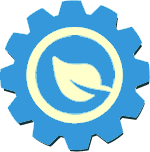
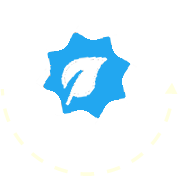
July 3, 2015 :tomato:

diff --git a/public/Assets/css/style.css b/public/Assets/css/style.css
@@ -323,66 +323,156 @@ p.services-definition {
 	#image-icon4,
 	#image-icon5 {
 		position: absolute;
+		z-index: 1;
+	}
+
+	#image-icon1 + .gear, 
+	#image-icon2 + .gear, 
+	#image-icon3 + .gear, 
+	#image-icon4 + .gear, 
+	#image-icon5 + .gear {
+		position: absolute;
+		z-index: 0;
+		-webkit-transition: -webkit-transform 1s ease-in-out;
+		transition: transform 1s ease-in-out;
 	}
 
 	#image-icon1 {
-		top: 195px;
-		right: 272px;
-		height: 75px;
-		width: 75px;
+		height: 120px;
+		width: 120px;
+		bottom: 49px;
+		left: 240px;
 	}
 
 	#image-icon2 {
+		height: 97px;
+		width: 97px;
+		bottom: 12px;
+		left: 358px;
 	}
 
 	#image-icon3 {
-		bottom: 80px;
-		right: 211px;
-		height: 82px;
-		width: 82px;
+		height: 100px;
+		width: 100px;
+		bottom: 56px;
+		left: 499px;
 	}
 
 	#image-icon4 {
+		height: 65px;
+		width: 65px;
+		bottom: 103px;
+		left: 420px;
 	}
 
 	#image-icon5 {
-		bottom: 43px;
-		right: 512px;
-		height: 68px;
-		width: 68px;
+		height: 76px;
+		width: 76px;
+		bottom: 24px;
+		left: 164px;
 	}
 
-	#image-icon3 + .icon-arrow {
+	#image-icon1 + .gear {
 		height: 100px;
 		width: 100px;
-		right: 197px;
-		bottom: 73px;
-		position: absolute;
+		left: 250px;
+		bottom: 55px;
 	}
 
-	/*img {
-		border-radius: 50%;
-		-webkit-transition: -webkit-transform .8s ease-in-out;
-		transition: transform .8s ease-in-out;
+	#image-icon2 + .gear {
+		height: 80px;
+		width: 80px;
+		left: 366px;
+		bottom: 35px;
 	}
-	img:hover {
+
+	#image-icon3 + .gear {
+		height: 78px;
+		width: 78px;
+		bottom: 65px;
+		left: 510px;
+	}
+
+	#image-icon4 + .gear {
+		height: 55px;
+		width: 55px;
+		bottom: 109px;
+		left: 434px;
+	}
+
+	#image-icon5 + .gear {
+		height: 66px;
+		width: 66px;
+		left: 168px;
+		bottom: 35px;
+	}
+
+	#image-icon1:hover + .gear,
+	#image-icon2:hover + .gear,
+	#image-icon3:hover + .gear,
+	#image-icon4:hover + .gear,
+	#image-icon5:hover + .gear {
+		opacity: 1;
+	}
+
+	/* spin */
+
+	#image-icon1:hover + .gear,
+	#image-icon3:hover + .gear {
 		-webkit-transform: rotate(360deg);
 		transform: rotate(360deg);
+		transition: 3s ease-in;
 	}
 
-	img:hover
-		{
-		    cursor: default;
-		    transform: rotate(360deg);
-		    transition: all 0.3s ease-in-out 0s;
-		}
-*/
+	#image-icon2:hover + .gear,
+	#image-icon4:hover + .gear,
+	#image-icon5:hover + .gear {
+		-webkit-transform: rotate(-360deg);
+		transform: rotate(-360deg);
+		transition: 3s ease-in;
+	}
 
+	.spinc {
+		-webkit-transform: rotate(360deg);
+		transform: rotate(360deg);
+		transition: 2s ease-in !important;
+	}
+
+	.spincc {
+		-webkit-transform: rotate(-360deg);
+		transform: rotate(-360deg);
+		transition: 2s ease-in !important;
+	}
+
+	.spin {
+
+	}
+	
 	.service-title,
 	.service-description {
 		position: absolute;
-		width: 550px;
 		text-shadow: 0px 1px 0px #34495E;
+		opacity: 0;
+		-webkit-transition: all 0.8s ease-in-out;
+		-moz-transition: all 0.8s ease-in-out;
+		-ms-transition: all 0.8s ease-in-out;
+		-o-transition: all 0.8s ease-in-out;
+		transition: all 0.8s ease-in-out;	
+		z-index: -1;
+	}
+
+	#image-icon1:hover ~ .service-title,
+	#image-icon1:hover ~ .service-description,
+	#image-icon2:hover ~ .service-title,
+	#image-icon2:hover ~ .service-description,
+	#image-icon3:hover ~ .service-title,
+	#image-icon3:hover ~ .service-description,
+	#image-icon4:hover ~ .service-title,
+	#image-icon4:hover ~ .service-description,
+	#image-icon5:hover ~ .service-title,
+	#image-icon5:hover ~ .service-description {
+		opacity: 1;
+		z-index: 0;
 	}
 
 	.service-title:hover,
@@ -393,10 +483,11 @@ p.services-definition {
 	}
 
 	.service-title {
+		width: 650px;
 		padding: 20px 20px 5px 60px;
 		font-family: 'Open Sans Semibold';
 		top: 100px;
-		color: #f39c12;
+		color: #FFA400;
 		font-size: 25px;
 		letter-spacing: 1px;
 		text-transform: uppercase;
@@ -405,8 +496,9 @@ p.services-definition {
 	}
 
 	.service-description {
-		top: 185px;
-		padding: 0 20px 20px 60px;
+		width: 550px;
+		top: 160px;
+		padding: 0 20px 20px 90px;
 		color: #fff;
 		font-size: 13px;
 	}

diff --git a/app/views/Pages/index-home.blade.php b/app/views/Pages/index-home.blade.php
@@ -10,39 +10,39 @@
     <div class="rajtech-bg-image">
         <div class="services-offered">
     		<a href="{{ URL::to('two-way-radio-communication') }}">
-                <img id="image-icon1" src="{{ asset('Assets/img/slider/icon1.png') }}" width="160px" height="160px"/>
-                <img class="icon-arrow" src="{{ asset('Assets/img/slider/arrow-spin.png') }}">
-                <p class="service-title">Lorem ipsum dolor sit amet, consectetur adipisicing elit.</p>
+                <img id="image-icon1" onmouseover="mouseOver1()" onmouseout="mouseOut1()" src="{{ asset('Assets/img/slider/icon1.png') }}" width="160px" height="160px"/>
+                <img class="gear" src="{{ asset('Assets/img/slider/gear1.png') }}">
+                <p class="service-title">Information Technology (IT) Services</p>
                 <p class="service-description">We are a global leader in delivering IT Outsourcing Services in the industry. Our transformation and innovation capabilities help IT functions to become a key business enabler and harnessing the latest technology for delivering excellent services.
                 </p>
 
     		</a>
     		<a href="{{ URL::to('imaging-solutions') }}">
                 <img id="image-icon2" src="{{ asset('Assets/img/slider/icon2.png') }}" width="130px" height="130px"/>
-                <img class="icon-arrow" src="{{ asset('Assets/img/slider/arrow-spin.png') }}">
-                <p class="service-title">Lorem ipsum dolor sit amet, consectetur adipisicing elit.</p>
-                <p class="service-description">We are a global leader in delivering IT Outsourcing Services in the industry. Our transformation and innovation capabilities help IT functions to become a key business enabler and harnessing the latest technology for delivering excellent services.</p>
+                <img class="gear" src="{{ asset('Assets/img/slider/gear2.png') }}">
+                <p class="service-title">Imaging Solution Services</p>
+                <p class="service-description">Imaging Solutions mean custom office equipment packages to address your specific wants and needs. By combining quality digital printer, copier, scanner and fax hardware, with our excellent customer support.</p>
 
     		</a>
     		<a href="{{ URL::to('information-technology') }}">
                 <img id="image-icon3" src="{{ asset('Assets/img/slider/icon3.png') }}" width="130px" height="130px"/>
-                <img class="icon-arrow" src="{{ asset('Assets/img/slider/arrow-spin.png') }}">
-                <p class="service-title">Lorem ipsum dolor sit amet, consectetur adipisicing elit.</p>
-                <p class="service-description">We are a global leader in delivering IT Outsourcing Services in the industry. Our transformation and innovation capabilities help IT functions to become a key business enabler and harnessing the latest technology for delivering excellent services.</p>
+                <img class="gear" src="{{ asset('Assets/img/slider/gear3.png') }}">
+                <p class="service-title">2-Way Radio Communication Services</p>
+                <p class="service-description">Our diverse array of portable and mobile two-way radios better enable you to efficiently coordinate and communicate with your on-the-go workforce, regardless of whether you have a small shop or a large nationwide business.</p>
 
     		</a>
     		<a href="{{ URL::to('security-and-surveillance') }}">
                 <img id="image-icon4" src="{{ asset('Assets/img/slider/icon4.png') }}" width="130px" height="130px"/>
-                <img class="icon-arrow" src="{{ asset('Assets/img/slider/arrow-spin.png') }}">
-                <p class="service-title">Lorem ipsum dolor sit amet, consectetur adipisicing elit.</p>
-                <p class="service-description">We are a global leader in delivering IT Outsourcing Services in the industry. Our transformation and innovation capabilities help IT functions to become a key business enabler and harnessing the latest technology for delivering excellent services.</p>
+                <img class="gear" src="{{ asset('Assets/img/slider/gear4.png') }}">
+                <p class="service-title">Security &amp; Surveillance Services</p>
+                <p class="service-description">Our expertise includes access control, video surveillance, integrated physical/logical security and intrusion alarms. Our strong experience with 100 percent IP-based systems that lower cost and improve network flexibility and scalability.</p>
 
     		</a>
     		<a href="{{ URL::to('renewable-energy') }}">
                 <img id="image-icon5" src="{{ asset('Assets/img/slider/icon5.png') }}" width="130px" height="130px"/>
-                <img class="icon-arrow" src="{{ asset('Assets/img/slider/arrow-spin.png') }}">
-                <p class="service-title">Lorem ipsum dolor sit amet, consectetur adipisicing elit.</p>
-                <p class="service-description">We are a global leader in delivering IT Outsourcing Services in the industry. Our transformation and innovation capabilities help IT functions to become a key business enabler and harnessing the latest technology for delivering excellent services.</p>
+                <img class="gear" src="{{ asset('Assets/img/slider/gear5.png') }}">
+                <p class="service-title">Renewable Energy Services</p>
+                <p class="service-description">Solar technologies are an effective and increasingly economic choice as conventional energy prices rise. We have the capabilities to develop, construct, operate and optimise the operation of solar powered facilities.</p>
 
     		</a>
         </div>
@@ -57,7 +57,7 @@
             <div class="col-md-4">
                 <div class="panel panel-default">
                     <div class="panel-heading">
-                        <h4><span class="service-panel-icon"><img src="{{ asset('Assets/img/check-o.png') }}"></span>Information Technology(IT) Services</h4>
+                        <h4><span class="service-panel-icon"><img src="{{ asset('Assets/img/check-o.png') }}"></span>Information Technology (IT) Services</h4>
                     </div>
                     <div class="panel-body">
                         <p>We are a global leader in delivering IT Outsourcing Services in the industry. Our transformation and innovation capabilities help IT functions to become a key business enabler and harnessing the latest technology for delivering excellent services.</p>
@@ -153,6 +153,24 @@
     <!-- /.container -->
 
 @include('Pages.footer-snippet')
+
+    <script>
+        function mouseOver1() {
+            $("#image-icon2 + .gear").addClass("spinc");
+            $("#image-icon3 + .gear").addClass("spincc");
+            $("#image-icon4 + .gear").addClass("spinc");
+            $("#image-icon5 + .gear").addClass("spincc");
+        }
+
+        function mouseOut1() {
+            $("#image-icon2 + .gear").removeClass("spinc");
+            $("#image-icon3 + .gear").removeClass("spincc");
+            $("#image-icon4 + .gear").removeClass("spinc");
+            $("#image-icon5 + .gear").removeClass("spincc");
+        }
+
+        
+    </script>
 		
 </body>
 
